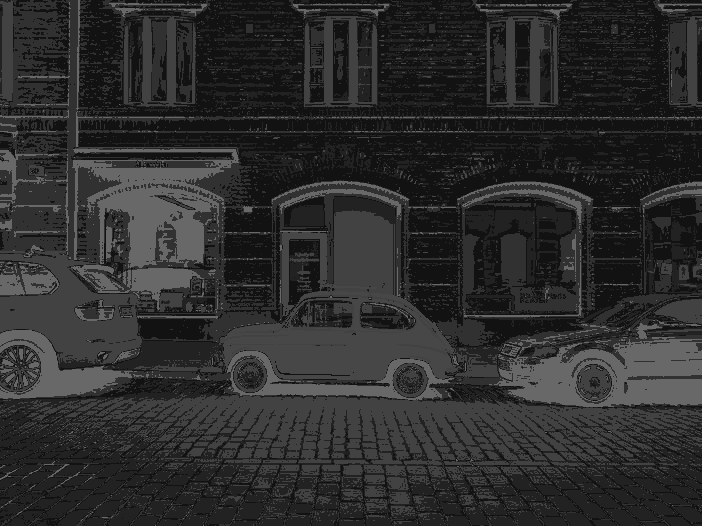
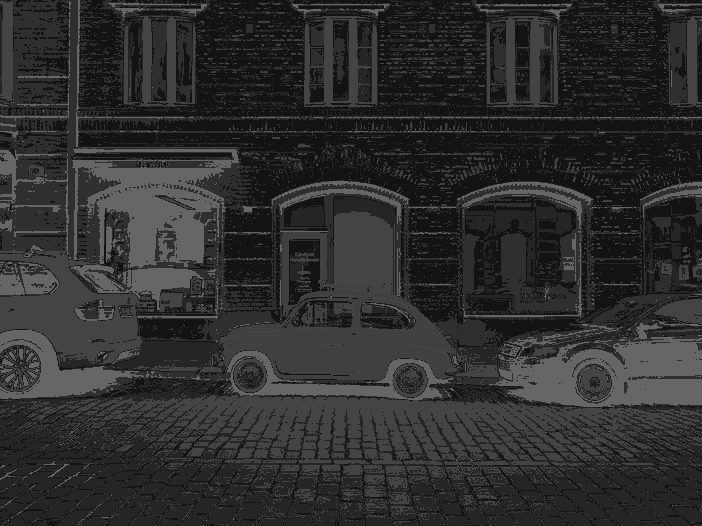
trying to fix ftsr

diff --git a/kmeans_ftsr.py b/kmeans_ftsr.py
@@ -20,25 +20,35 @@ def lab_mean(img):
 
 
 def gaussian_smoothing(img, kernel):
-    result = cv2.filter2D(img,-1,kernel)
+    #result = cv2.filter2D(img,-1,kernel)
     result = cv2.GaussianBlur(img,(5,5),0)
     plt.imshow(result)
     plt.show()
     return result
 
 
-def euclidean_distance(vector):
-    soma = np.float32(32)
+def euclidean_distance(vector1, vector2):
+    vector = (vector1-vector2)
+    #print(vector1, vector2, vector)
+    soma = np.float32(0)
     for x in vector:
         soma += x**2
+    #print(math.sqrt(soma))
     return math.sqrt(soma)
+    #return np.linalg.norm(vector)
 
 def saliency_map(img, Imean):
     img32f = np.float32(img)
     Imean32f = np.float32(Imean)
 
-    Iwhc = [[euclidean_distance(Imean32f-element) for element in row] for row in img32f]
-    Iwhc = np.array(Iwhc, dtype=np.uint8)
+    Iwhc = np.zeros((img32f.shape[0],img32f.shape[1]), dtype = np.float32)
+    for i in range(Iwhc.shape[0]):
+        for j in range(Iwhc.shape[1]):
+            Iwhc[i][j] = euclidean_distance(Imean32f,img32f[i][j])
+            print(i,j,Iwhc[i][j])
+    
+    #Iwhc2 = [[euclidean_distance(Imean32f,element) for element in row] for row in img32f]
+    Iwhc = np.array(np.round(Iwhc), dtype=np.uint8)
     return Iwhc
 
 def k_means(img):
@@ -103,9 +113,8 @@ path_folder = PATH_OUTPUT + name_folder + '/'
 
 img = cv2.imread(path)
 
-img_lab = cv2.cvtColor(img, cv2.COLOR_BGR2LAB)
+img_lab = cv2.cvtColor(img, cv2.COLOR_BGR2LUV)
 Imean = lab_mean(img_lab)
-
 
 #Figura que representa a média das features do vetor no espaço Lab
 Imean_rgb = cv2.cvtColor(np.array([[Imean]]), cv2.COLOR_LAB2RGB)
@@ -121,6 +130,9 @@ kernel=np.array([1,4,6,4,1])/16
 img_lab_smooth = gaussian_smoothing(img_lab,kernel)
 saliency_img = saliency_map(img_lab_smooth,Imean)
 
+plt.imshow(saliency_img, cmap='gray')
+plt.show()
+print("receba ", Imean, img_lab_smooth[img_lab_smooth.shape[0]-1][img_lab_smooth.shape[1]-4], saliency_img[img_lab_smooth.shape[0]-1][img_lab_smooth.shape[1]-4])
 
 #Imagem gerada utilizando a técnica de OTSU
 img = cv2.cvtColor(img, cv2.COLOR_BGR2RGB)
@@ -136,7 +148,7 @@ exhibit(1,3,titles,images)
 
 #Imagem gerada usando Kmeans
 segment_hsv = k_means(img_lab)
-segment_rgb = cv2.cvtColor(segment_hsv, cv2.COLOR_LAB2RGB)
+segment_rgb = cv2.cvtColor(segment_hsv, cv2.COLOR_LUV2RGB)
 segments_values = get_unique_values(segment_rgb)
 
 

diff --git a/ftsr.py b/ftsr.py
@@ -30,7 +30,7 @@ def gaussian_smoothing(img, kernel):
 def euclidean_distance(vector1,vector2):
     vector = (vector1-vector2)
     #print(vector1, vector2, vector)
-    soma = np.float32(32)
+    soma = np.float32(0)
     for x in vector:
         soma += x**2
     return math.sqrt(soma)
